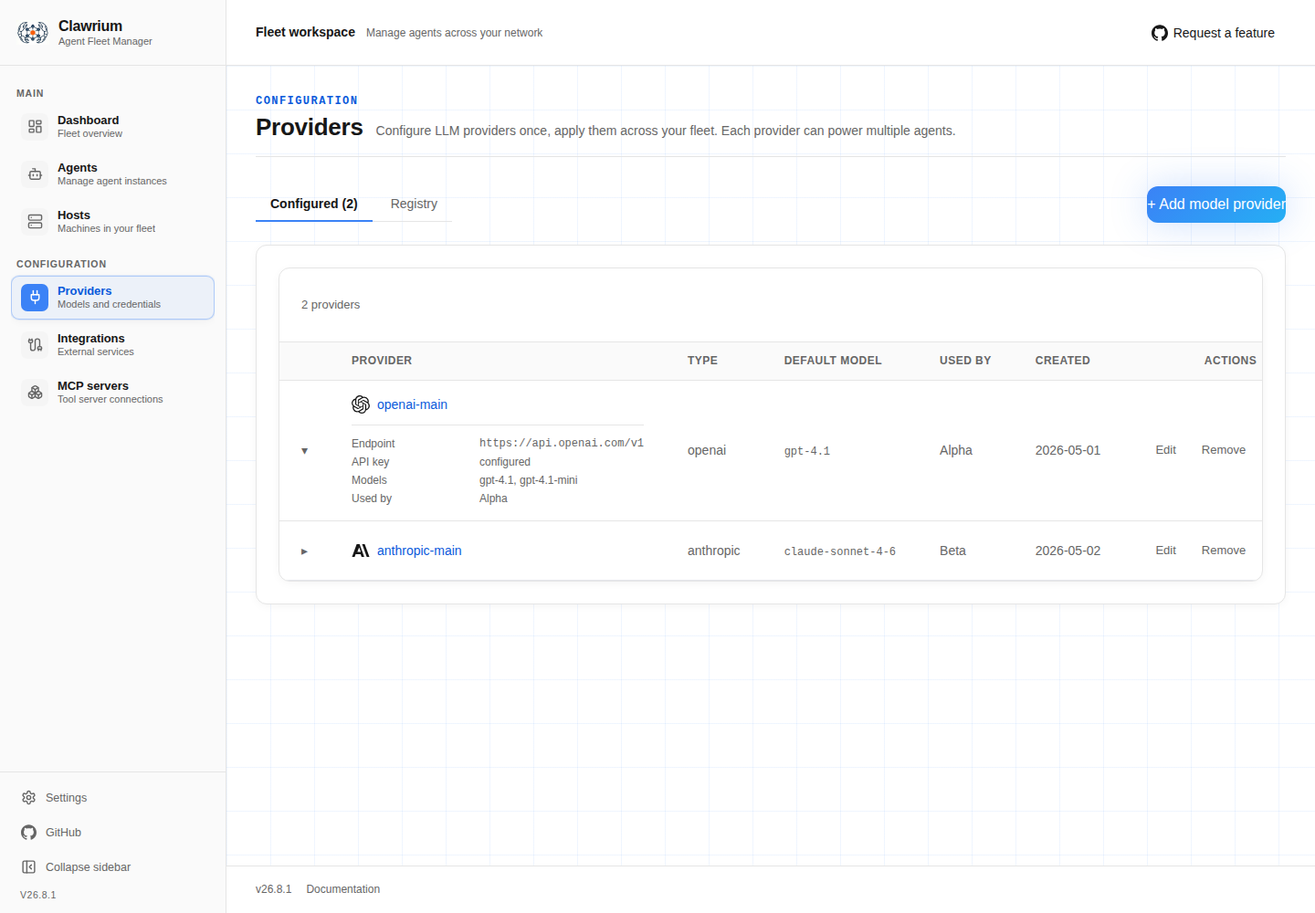
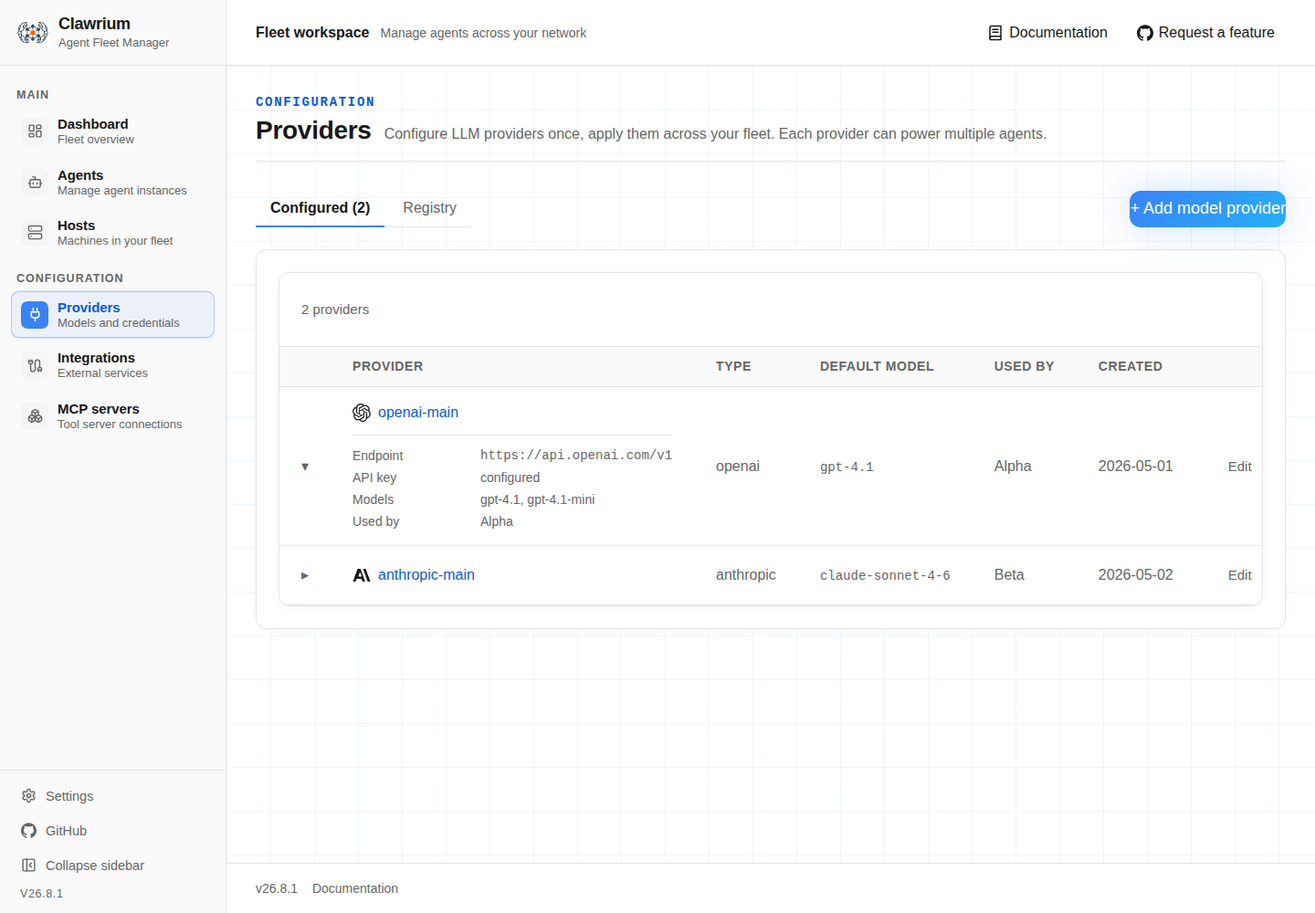
fix(gui): enlarge fleet typography
Expose Documentation in the top-right application header and raise the centralized design-system and Tailwind typography scale by roughly two pixels. Keep mobile actions accessible as icon-only links and refresh browser evidence.\n\nRefs #1075

diff --git a/gui/src/design-system/styles.css b/gui/src/design-system/styles.css
@@ -57,7 +57,7 @@
 
   box-sizing: border-box;
   color: var(--foreground);
-  font: 16px/1.6 var(--font-sans);
+  font: 18px/1.6 var(--font-sans);
 }
 
 .iteration-design-system *,
@@ -80,12 +80,12 @@
   --surface-raised: #171717;
 }
 
-:where(.ds-button) { display: inline-flex; align-items: center; justify-content: center; gap: 8px; height: 40px; padding: 0 16px; border: 0; border-radius: var(--radius); cursor: pointer; font: 500 14px var(--font-sans); white-space: nowrap; transition: filter 200ms, background 200ms; }
+:where(.ds-button) { display: inline-flex; align-items: center; justify-content: center; gap: 8px; height: 40px; padding: 0 16px; border: 0; border-radius: var(--radius); cursor: pointer; font: 500 16px var(--font-sans); white-space: nowrap; transition: filter 200ms, background 200ms; }
 .ds-button:hover:not(:disabled) { filter: brightness(1.08); }
 .ds-button:disabled { opacity: .5; cursor: not-allowed; }
 .ds-button:focus-visible, .ds-input:focus-visible { outline: 2px solid var(--focus-ring); outline-offset: 2px; }
-.ds-button[data-size="sm"] { height: 32px; padding: 0 12px; font-size: 13px; }
-.ds-button[data-size="lg"] { height: 48px; padding: 0 32px; font-size: 16px; }
+.ds-button[data-size="sm"] { height: 32px; padding: 0 12px; font-size: 15px; }
+.ds-button[data-size="lg"] { height: 48px; padding: 0 32px; font-size: 18px; }
 .ds-button[data-variant="primary"] { color: #fff; background: var(--gradient-accent); box-shadow: var(--shadow-glow); }
 .ds-button[data-variant="solid"] { color: #fff; background: var(--primary); }
 .ds-button[data-variant="outline"] { color: var(--foreground); background: var(--surface-card); border: 1px solid var(--border); }
@@ -104,34 +104,34 @@
 .ds-card[data-variant="gradient"] { background: linear-gradient(135deg, var(--surface-card), var(--surface-raised)); box-shadow: var(--shadow-card); }
 .ds-card[data-variant="glow"] { border-color: rgb(59 130 246 / 30%); box-shadow: var(--shadow-glow); }
 
-.ds-eyebrow { color: var(--primary-text-color); font: 600 12px var(--font-mono); letter-spacing: .12em; text-transform: uppercase; }
+.ds-eyebrow { color: var(--primary-text-color); font: 600 14px var(--font-mono); letter-spacing: .12em; text-transform: uppercase; }
 .ds-eyebrow[data-tone="muted"] { color: var(--muted-foreground); }
 
-:where(.ds-input) { width: 100%; min-width: 0; height: 48px; padding: 0 16px; border: 1px solid var(--border); border-radius: var(--radius); background: var(--surface-raised); color: var(--foreground); font: 15px var(--font-sans); }
+:where(.ds-input) { width: 100%; min-width: 0; height: 48px; padding: 0 16px; border: 1px solid var(--border); border-radius: var(--radius); background: var(--surface-raised); color: var(--foreground); font: 17px var(--font-sans); }
 .ds-input[data-size="sm"] { height: 40px; }
 .ds-input::placeholder { color: var(--muted-foreground); }
 
 .ds-stat { display: flex; align-items: flex-start; gap: 18px; }
 .ds-stat[data-layout="stacked"] { flex-direction: column; gap: 8px; }
-.ds-stat-value { font-size: 34px; font-weight: 700; letter-spacing: -.02em; line-height: 1; }
-.ds-stat[data-layout="stacked"] .ds-stat-value { font-size: 56px; }
-.ds-stat-source { display: block; margin-top: 4px; color: var(--muted-foreground); font-size: 13px; }
+.ds-stat-value { font-size: 36px; font-weight: 700; letter-spacing: -.02em; line-height: 1; }
+.ds-stat[data-layout="stacked"] .ds-stat-value { font-size: 58px; }
+.ds-stat-source { display: block; margin-top: 4px; color: var(--muted-foreground); font-size: 15px; }
 .dashboard-metric.ds-stat, .dashboard-agent-metric.ds-stat { gap: 4px; }
-.dashboard-metric.ds-stat .ds-stat-value { max-width: 100%; overflow: hidden; color: var(--primary-text-color); font-size: 24px; text-overflow: ellipsis; white-space: nowrap; }
-.dashboard-agent-metric.ds-stat .ds-stat-value { display: flex; min-height: 24px; align-items: center; justify-content: center; color: var(--foreground); font-size: 18px; }
+.dashboard-metric.ds-stat .ds-stat-value { max-width: 100%; overflow: hidden; color: var(--primary-text-color); font-size: 26px; text-overflow: ellipsis; white-space: nowrap; }
+.dashboard-agent-metric.ds-stat .ds-stat-value { display: flex; min-height: 24px; align-items: center; justify-content: center; color: var(--foreground); font-size: 20px; }
 
 .ds-data-table { width: 100%; overflow: hidden; border: 1px solid var(--border); border-radius: var(--radius); background: var(--surface-card); box-shadow: var(--shadow-card); }
 .ds-data-table-toolbar { display: flex; align-items: center; justify-content: space-between; flex-wrap: wrap; gap: 16px; padding: 20px 24px; }
 .ds-data-table-heading { display: flex; align-items: center; gap: 12px; min-height: 40px; }
-.ds-data-table-heading h2 { margin: 0; font: 600 18px/1.3 var(--font-sans); }
-.ds-data-table-count { color: var(--muted-foreground); font-size: 13px; white-space: nowrap; }
+.ds-data-table-heading h2 { margin: 0; font: 600 20px/1.3 var(--font-sans); }
+.ds-data-table-count { color: var(--muted-foreground); font-size: 15px; white-space: nowrap; }
 .ds-data-table-tools { display: flex; align-items: center; flex-wrap: wrap; gap: 12px; }
 .ds-data-table-search { position: relative; display: flex; align-items: center; width: min(280px, 100%); color: var(--muted-foreground); }
 .ds-data-table-search svg { position: absolute; left: 12px; pointer-events: none; }
 .ds-data-table-search .ds-input { padding-left: 36px; }
 .ds-data-table-scroll { width: 100%; overflow-x: auto; }
-.ds-data-table table { width: max-content; min-width: 100%; border-collapse: collapse; font-size: 14px; text-align: left; }
-.ds-data-table th { padding: 12px 24px; border-top: 1px solid var(--border); border-bottom: 1px solid var(--border); background: var(--surface-raised); color: var(--muted-foreground); font: 600 12px/1.4 var(--font-sans); letter-spacing: .04em; text-transform: uppercase; white-space: nowrap; }
+.ds-data-table table { width: max-content; min-width: 100%; border-collapse: collapse; font-size: 16px; text-align: left; }
+.ds-data-table th { padding: 12px 24px; border-top: 1px solid var(--border); border-bottom: 1px solid var(--border); background: var(--surface-raised); color: var(--muted-foreground); font: 600 14px/1.4 var(--font-sans); letter-spacing: .04em; text-transform: uppercase; white-space: nowrap; }
 .ds-data-table th[data-align="center"], .ds-data-table td[data-align="center"] { text-align: center; }
 .ds-data-table th[data-align="right"], .ds-data-table td[data-align="right"] { text-align: right; }
 .ds-data-table td { padding: 16px 24px; border-bottom: 1px solid var(--border); white-space: nowrap; }
@@ -143,12 +143,12 @@
 .ds-data-table-sort:focus-visible, .ds-data-table-pagination button:focus-visible { outline: 2px solid var(--focus-ring); outline-offset: 3px; border-radius: 3px; }
 .ds-data-table th[data-align="right"] .ds-data-table-sort { justify-content: flex-end; }
 .ds-data-table-empty { padding: 48px 24px !important; color: var(--muted-foreground); text-align: center !important; }
-.ds-data-table-footer { display: flex; align-items: center; justify-content: space-between; flex-wrap: wrap; gap: 12px; padding: 12px 24px; border-top: 1px solid var(--border); color: var(--muted-foreground); font-size: 13px; }
+.ds-data-table-footer { display: flex; align-items: center; justify-content: space-between; flex-wrap: wrap; gap: 12px; padding: 12px 24px; border-top: 1px solid var(--border); color: var(--muted-foreground); font-size: 15px; }
 .ds-data-table-pagination { display: flex; align-items: center; gap: 12px; }
 .ds-data-table-pagination button { display: inline-flex; align-items: center; justify-content: center; width: 30px; height: 30px; border: 1px solid var(--border); border-radius: 6px; background: var(--surface-card); color: var(--foreground); cursor: pointer; }
 .ds-data-table-pagination button:disabled { opacity: .4; cursor: not-allowed; }
 
-.ds-status-chip { display: inline-flex; align-items: center; gap: 7px; font: 500 13px var(--font-sans); white-space: nowrap; }
+.ds-status-chip { display: inline-flex; align-items: center; gap: 7px; font: 500 15px var(--font-sans); white-space: nowrap; }
 .ds-status-dot { width: 8px; height: 8px; border-radius: 50%; background: var(--muted-foreground); }
 .ds-status-chip[data-status="online"] .ds-status-dot, .ds-status-chip[data-status="valid"] .ds-status-dot, .ds-status-chip[data-status="connected"] .ds-status-dot, .ds-status-chip[data-status="active"] .ds-status-dot, .ds-status-chip[data-status="running"] .ds-status-dot { background: #22c55e; }
 .ds-status-chip[data-status="running"] .ds-status-dot { animation: ds-status-pulse 1.1s ease-in-out infinite; }
@@ -171,24 +171,24 @@
 .ds-page-header { display: flex; align-items: flex-start; justify-content: space-between; flex-wrap: wrap; gap: 16px; margin-bottom: 32px; padding-bottom: 16px; border-bottom: 1px solid var(--border); }
 .ds-page-header-main { min-width: 0; }
 .ds-page-title-row { display: flex; align-items: baseline; gap: 14px; min-width: 0; margin-top: 6px; }
-.ds-page-header h1 { margin: 0; font: 700 26px/1.2 var(--font-sans); letter-spacing: -.01em; white-space: nowrap; }
-.ds-page-header p { margin: 0; min-width: 0; overflow: hidden; text-overflow: ellipsis; white-space: nowrap; color: var(--muted-foreground); font-size: 14px; }
+.ds-page-header h1 { margin: 0; font: 700 28px/1.2 var(--font-sans); letter-spacing: -.01em; white-space: nowrap; }
+.ds-page-header p { margin: 0; min-width: 0; overflow: hidden; text-overflow: ellipsis; white-space: nowrap; color: var(--muted-foreground); font-size: 16px; }
 .ds-page-actions { display: flex; align-items: center; gap: 10px; }
 
 .ds-host-card { display: flex; flex-direction: column; gap: 12px; width: 100%; max-width: 420px; padding: 16px; border: 1px solid var(--border); border-radius: 10px; background: var(--background); box-shadow: 0 1px 3px rgba(0, 0, 0, .06); }
-.ds-host-card-head { display: flex; align-items: center; gap: 9px; padding-bottom: 10px; border-bottom: 1px solid var(--border); font: 600 16px var(--font-sans); }
+.ds-host-card-head { display: flex; align-items: center; gap: 9px; padding-bottom: 10px; border-bottom: 1px solid var(--border); font: 600 18px var(--font-sans); }
 .ds-host-card-name { color: inherit; text-decoration: none; white-space: nowrap; font-weight: 650; }
 .ds-host-card-name:hover { text-decoration: underline; }
-.ds-host-card-kind { margin-left: auto; color: var(--muted-foreground); font: 400 12px var(--font-mono); text-transform: uppercase; letter-spacing: .04em; }
+.ds-host-card-kind { margin-left: auto; color: var(--muted-foreground); font: 400 14px var(--font-mono); text-transform: uppercase; letter-spacing: .04em; }
 .ds-host-card-details { display: grid; grid-template-columns: 1fr 1fr; gap: 8px 16px; margin: 0; }
 .ds-host-card-details > div { min-width: 0; }
-.ds-host-card-details dt { color: var(--muted-foreground); font: 500 10.5px var(--font-sans); text-transform: uppercase; letter-spacing: .05em; }
-.ds-host-card-details dd { margin: 2px 0 0; overflow: hidden; text-overflow: ellipsis; white-space: nowrap; font: 500 12.5px var(--font-mono); }
-.ds-host-card-empty { color: var(--muted-foreground); font: 400 13px var(--font-sans); }
+.ds-host-card-details dt { color: var(--muted-foreground); font: 500 12.5px var(--font-sans); text-transform: uppercase; letter-spacing: .05em; }
+.ds-host-card-details dd { margin: 2px 0 0; overflow: hidden; text-overflow: ellipsis; white-space: nowrap; font: 500 14.5px var(--font-mono); }
+.ds-host-card-empty { color: var(--muted-foreground); font: 400 15px var(--font-sans); }
 .ds-host-card-agents { display: flex; flex-direction: column; gap: 6px; }
-.ds-host-agent { display: flex; align-items: center; gap: 7px; padding: 6px 10px; border: 1px solid var(--border); border-radius: 8px; background: var(--surface-raised); color: inherit; text-decoration: none; font: 500 13px var(--font-sans); }
+.ds-host-agent { display: flex; align-items: center; gap: 7px; padding: 6px 10px; border: 1px solid var(--border); border-radius: 8px; background: var(--surface-raised); color: inherit; text-decoration: none; font: 500 15px var(--font-sans); }
 .ds-host-agent:hover { border-color: var(--muted-foreground); }
-.ds-host-agent-kind { margin-left: auto; color: var(--muted-foreground); font: 400 11px var(--font-mono); }
+.ds-host-agent-kind { margin-left: auto; color: var(--muted-foreground); font: 400 13px var(--font-mono); }
 .ds-host-agent-more { justify-content: center; color: var(--muted-foreground); border-style: dashed; }
 
 .ds-grid-backdrop {
@@ -199,7 +199,7 @@
 }
 
 .ds-tab-bar { display: flex; gap: 4px; border-bottom: 1px solid var(--border); }
-.ds-tab-btn { margin-bottom: -1px; padding: 10px 16px; border: 0; border-bottom: 2px solid transparent; background: transparent; color: var(--muted-foreground); cursor: pointer; font: 500 14px var(--font-sans); }
+.ds-tab-btn { margin-bottom: -1px; padding: 10px 16px; border: 0; border-bottom: 2px solid transparent; background: transparent; color: var(--muted-foreground); cursor: pointer; font: 500 16px var(--font-sans); }
 .ds-tab-btn:hover { color: var(--foreground); }
 .ds-tab-btn[data-active="true"] { color: var(--foreground); border-bottom-color: var(--primary); font-weight: 600; }
 
@@ -208,10 +208,10 @@
 .ds-app-sidebar-brand { display: flex; height: 72px; flex: 0 0 auto; align-items: center; gap: 10px; margin: 0 -12px 4px; padding: 12px 18px; border-bottom: 1px solid var(--border); color: inherit; }
 .ds-app-sidebar-logo { width: 36px; height: 36px; flex: 0 0 auto; object-fit: contain; }
 .ds-app-sidebar-brand-text { display: flex; min-width: 0; flex-direction: column; gap: 1px; line-height: 1.2; }
-.ds-app-sidebar-brand-title { color: var(--foreground); font-size: 16px; font-weight: 700; letter-spacing: -.015em; }
-.ds-app-sidebar-brand-subtitle { overflow: hidden; color: var(--muted-foreground); font-size: 11px; font-weight: 500; text-overflow: ellipsis; white-space: nowrap; }
+.ds-app-sidebar-brand-title { color: var(--foreground); font-size: 18px; font-weight: 700; letter-spacing: -.015em; }
+.ds-app-sidebar-brand-subtitle { overflow: hidden; color: var(--muted-foreground); font-size: 13px; font-weight: 500; text-overflow: ellipsis; white-space: nowrap; }
 .ds-app-sidebar-nav { display: flex; min-height: 0; flex: 1 1 auto; flex-direction: column; gap: 4px; padding: 8px 0; overflow-y: auto; }
-.ds-app-sidebar-section { margin: 10px 6px 4px; color: var(--muted-foreground); font-size: 10.5px; font-weight: 650; letter-spacing: .08em; text-transform: uppercase; }
+.ds-app-sidebar-section { margin: 10px 6px 4px; color: var(--muted-foreground); font-size: 12.5px; font-weight: 650; letter-spacing: .08em; text-transform: uppercase; }
 .ds-app-sidebar-group { display: flex; flex-direction: column; gap: 4px; }
 .ds-app-sidebar-card { display: flex; width: 100%; align-items: center; gap: 10px; padding: 8px 10px; border: 1px solid transparent; border-radius: 9px; color: var(--foreground); background: transparent; text-decoration: none; transition: background-color 120ms ease, border-color 120ms ease, box-shadow 120ms ease; }
 .ds-app-sidebar-card:hover { border-color: var(--border); background: var(--accent); box-shadow: var(--shadow-card); }
@@ -219,13 +219,13 @@
 .ds-app-sidebar-card-tile { display: inline-flex; width: 30px; height: 30px; flex: 0 0 auto; align-items: center; justify-content: center; border-radius: 7px; background: var(--secondary); color: var(--muted-foreground); transition: background-color 120ms ease, color 120ms ease; }
 .ds-app-sidebar-card:hover .ds-app-sidebar-card-tile, .ds-app-sidebar-card[data-active="true"] .ds-app-sidebar-card-tile { background: var(--primary); color: var(--primary-foreground); }
 .ds-app-sidebar-card-text { display: flex; min-width: 0; flex-direction: column; line-height: 1.2; }
-.ds-app-sidebar-card-title { color: var(--foreground); font-size: 13px; font-weight: 600; letter-spacing: -.005em; }
+.ds-app-sidebar-card-title { color: var(--foreground); font-size: 15px; font-weight: 600; letter-spacing: -.005em; }
 .ds-app-sidebar-card[data-active="true"] .ds-app-sidebar-card-title { color: var(--accent-foreground); font-weight: 700; }
-.ds-app-sidebar-card-subtitle { overflow: hidden; color: var(--muted-foreground); font-size: 11px; font-weight: 500; text-overflow: ellipsis; white-space: nowrap; }
+.ds-app-sidebar-card-subtitle { overflow: hidden; color: var(--muted-foreground); font-size: 13px; font-weight: 500; text-overflow: ellipsis; white-space: nowrap; }
 .ds-app-sidebar-footer { display: flex; flex-direction: column; gap: 3px; margin: 0 -12px -14px; padding: 10px 12px 12px; border-top: 1px solid var(--border); background: var(--surface-raised); }
-.ds-app-sidebar-action { display: flex; width: 100%; align-items: center; gap: 10px; padding: 8px 10px; border: 1px solid transparent; border-radius: 9px; color: var(--muted-foreground); background: transparent; font: 500 12.5px var(--font-sans); text-align: left; cursor: pointer; transition: background-color 120ms ease, color 120ms ease; }
+.ds-app-sidebar-action { display: flex; width: 100%; align-items: center; gap: 10px; padding: 8px 10px; border: 1px solid transparent; border-radius: 9px; color: var(--muted-foreground); background: transparent; font: 500 14.5px var(--font-sans); text-align: left; cursor: pointer; transition: background-color 120ms ease, color 120ms ease; }
 .ds-app-sidebar-action:hover, .ds-app-sidebar-action[data-active="true"] { color: var(--foreground); background: var(--secondary); }
-.ds-app-sidebar-version { padding: 4px 10px 2px; color: var(--muted-foreground); font: 500 10.5px var(--font-sans); letter-spacing: .05em; text-transform: uppercase; }
+.ds-app-sidebar-version { padding: 4px 10px 2px; color: var(--muted-foreground); font: 500 12.5px var(--font-sans); letter-spacing: .05em; text-transform: uppercase; }
 .ds-app-sidebar.sidebar-collapsed { padding-inline: 8px; }
 .ds-app-sidebar.sidebar-collapsed .ds-app-sidebar-brand { justify-content: center; margin-inline: -8px; padding-inline: 8px; }
 .ds-app-sidebar.sidebar-collapsed .ds-app-sidebar-brand-text, .ds-app-sidebar.sidebar-collapsed .ds-app-sidebar-card-text, .ds-app-sidebar.sidebar-collapsed .ds-app-sidebar-action-label, .ds-app-sidebar.sidebar-collapsed .ds-app-sidebar-version { display: none; }

diff --git a/gui/src/components/layout/app-shell.test.tsx b/gui/src/components/layout/app-shell.test.tsx
@@ -27,6 +27,7 @@ describe("AppShell", () => {
     const header = screen.getByRole("banner", { name: "Application header" });
     expect(within(header).getByText("Fleet workspace")).toBeInTheDocument();
     expect(within(header).getByText("Manage agents across your network")).toBeInTheDocument();
+    expect(within(header).getByRole("link", { name: "Documentation" })).toHaveAttribute("href", "https://ric03uec.github.io/clawrium/");
     expect(within(header).getByRole("link", { name: "Request a feature" })).toBeInTheDocument();
     const footer = screen.getByRole("contentinfo");
     expect(within(footer).getByRole("link", { name: "Documentation" })).toBeInTheDocument();
@@ -65,7 +66,7 @@ describe("AppShell", () => {
     vi.stubGlobal("fetch", vi.fn(() => new Promise((_resolve, reject) => { rejectFetch = reject; })));
     render(<AppShell>Content</AppShell>);
     await act(async () => { rejectFetch(new Error("unavailable")); });
-    expect(screen.getByRole("link", { name: "Documentation" })).toBeInTheDocument();
+    expect(within(screen.getByRole("contentinfo")).getByRole("link", { name: "Documentation" })).toBeInTheDocument();
   });
 
   it("handles a missing version and malformed JSON", async () => {
@@ -74,7 +75,7 @@ describe("AppShell", () => {
       const { container, unmount } = render(<AppShell>Content</AppShell>);
       await act(async () => { await Promise.resolve(); });
       expect(container.querySelector(".app-sidebar")).toHaveAttribute("data-version", "");
-      expect(screen.getByRole("link", { name: "Documentation" })).toBeInTheDocument();
+      expect(within(screen.getByRole("contentinfo")).getByRole("link", { name: "Documentation" })).toBeInTheDocument();
       unmount();
     }
   });

diff --git a/gui/src/components/layout/external-links.tsx b/gui/src/components/layout/external-links.tsx
@@ -1,18 +1,38 @@
+import type { ReactNode } from "react";
+import { DocsIcon } from "@/components/icons/docs";
 import { GithubIcon } from "@/components/icons/github";
 
+const DOCUMENTATION_URL = "https://ric03uec.github.io/clawrium/";
 const FEATURE_REQUEST_URL =
   "https://github.com/ric03uec/clawrium/issues/new?template=feature_request.yml";
 
-export function RequestFeatureButton() {
+function HeaderExternalLink({ href, icon, children }: { href: string; icon: ReactNode; children: string }) {
   return (
     <a
-      href={FEATURE_REQUEST_URL}
+      href={href}
       target="_blank"
       rel="noreferrer noopener"
-      className="flex items-center gap-1.5 px-3 h-9 rounded-lg text-sm text-primary-text hover:text-primary-foreground hover:bg-panel transition-colors whitespace-nowrap"
+      aria-label={children}
+      className="flex h-9 items-center gap-1.5 whitespace-nowrap rounded-lg px-3 text-sm text-primary-text transition-colors hover:bg-panel hover:text-primary-foreground"
     >
-      <GithubIcon className="h-[18px] w-[18px]" />
-      <span>Request a feature</span>
+      {icon}
+      <span>{children}</span>
     </a>
+  );
+}
+
+export function DocumentationButton() {
+  return (
+    <HeaderExternalLink href={DOCUMENTATION_URL} icon={<DocsIcon className="h-[18px] w-[18px]" />}>
+      Documentation
+    </HeaderExternalLink>
+  );
+}
+
+export function RequestFeatureButton() {
+  return (
+    <HeaderExternalLink href={FEATURE_REQUEST_URL} icon={<GithubIcon className="h-[18px] w-[18px]" />}>
+      Request a feature
+    </HeaderExternalLink>
   );
 }

diff --git a/gui/tailwind.config.ts b/gui/tailwind.config.ts
@@ -3,6 +3,21 @@ import type { Config } from "tailwindcss";
 const config: Config = {
   content: ["./src/**/*.{ts,tsx}"],
   theme: {
+    fontSize: {
+      xs: ["0.875rem", { lineHeight: "1.25rem" }],
+      sm: ["1rem", { lineHeight: "1.5rem" }],
+      base: ["1.125rem", { lineHeight: "1.75rem" }],
+      lg: ["1.25rem", { lineHeight: "1.75rem" }],
+      xl: ["1.375rem", { lineHeight: "1.75rem" }],
+      "2xl": ["1.625rem", { lineHeight: "2rem" }],
+      "3xl": ["2rem", { lineHeight: "2.25rem" }],
+      "4xl": ["2.5rem", { lineHeight: "2.75rem" }],
+      "5xl": ["3.125rem", { lineHeight: "1" }],
+      "6xl": ["3.875rem", { lineHeight: "1" }],
+      "7xl": ["4.625rem", { lineHeight: "1" }],
+      "8xl": ["6.125rem", { lineHeight: "1" }],
+      "9xl": ["8.125rem", { lineHeight: "1" }],
+    },
     extend: {
       colors: {
         primary: {

diff --git a/gui/src/styles/globals.css b/gui/src/styles/globals.css
@@ -82,14 +82,14 @@ body {
 
 .app-header-context strong {
   color: var(--foreground);
-  font-size: 0.875rem;
+  font-size: 1rem;
   font-weight: 650;
 }
 
 .app-header-description {
   overflow: hidden;
   color: var(--muted-foreground);
-  font-size: 0.75rem;
+  font-size: 0.875rem;
   text-overflow: ellipsis;
 }
 
@@ -115,7 +115,7 @@ body {
   border-top: 1px solid var(--border);
   background: var(--surface-card);
   color: var(--muted-foreground);
-  font-size: 0.75rem;
+  font-size: 0.875rem;
 }
 
 .app-footer a:hover {
@@ -143,6 +143,16 @@ body {
 
   .app-header {
     padding: 0 1.25rem;
+  }
+
+  .app-header-actions a {
+    width: 2.25rem;
+    justify-content: center;
+    padding-inline: 0;
+  }
+
+  .app-header-actions a span {
+    display: none;
   }
 
   .app-page {

diff --git a/gui/src/components/layout/app-shell.tsx b/gui/src/components/layout/app-shell.tsx
@@ -1,7 +1,7 @@
 "use client";
 
 import { useEffect, useState } from "react";
-import { RequestFeatureButton } from "./external-links";
+import { DocumentationButton, RequestFeatureButton } from "./external-links";
 import { Sidebar } from "./sidebar";
 
 export function AppShell({ children }: { children: React.ReactNode }) {
@@ -31,6 +31,7 @@ export function AppShell({ children }: { children: React.ReactNode }) {
             <span className="app-header-description">Manage agents across your network</span>
           </div>
           <div className="app-header-actions">
+            <DocumentationButton />
             <RequestFeatureButton />
           </div>
         </header>

diff --git a/gui/e2e/design-system.spec.ts b/gui/e2e/design-system.spec.ts
@@ -269,6 +269,9 @@ test("every primary sidebar route resolves with its heading and active item", as
 
 test("desktop shell collapse keeps icon navigation accessible", async ({ page }) => {
   await page.goto("/agents");
+  const header = page.getByRole("banner", { name: "Application header" });
+  await expect(header.getByRole("link", { name: "Documentation" })).toBeVisible();
+  await expect(header.getByRole("link", { name: "Request a feature" })).toBeVisible();
   await page.keyboard.press("Tab");
   const skipLink = page.getByRole("link", { name: "Skip to main content" });
   await expect(skipLink).toBeFocused();

diff --git a/gui/src/styles/visual-system.test.ts b/gui/src/styles/visual-system.test.ts
@@ -69,6 +69,8 @@ describe("visual-system activation contracts", () => {
     expect(globals).toContain("var(--focus-ring)");
     expect(tailwind).toContain('DEFAULT: "var(--primary)"');
     expect(tailwind).toContain('default: "var(--border)"');
+    expect(tailwind).toContain('base: ["1.125rem", { lineHeight: "1.75rem" }]');
+    expect(styles).toContain("font: 18px/1.6 var(--font-sans)");
     expect(tailwind).not.toMatch(/teal:\s*\{/);
   });
 

diff --git a/CHANGELOG.md b/CHANGELOG.md
@@ -34,7 +34,7 @@ cut. The `itx-release` skill archives this section into a new
 
 ### Changed
 
-- Standardize the GUI on the copied design system: shared accessible tables for agent, host, provider, model, and integration inventories; migrated headers, controls, tabs, metrics, and status surfaces; and a responsive, browser-verified app shell whose reusable sidebar matches the approved navigation hierarchy exactly. MCP servers retains a dedicated follow-up placeholder (#1075).
+- Standardize the GUI on the copied design system: shared accessible tables for agent, host, provider, model, and integration inventories; migrated headers, controls, tabs, metrics, and status surfaces; larger fleet-wide typography; and a responsive, browser-verified app shell whose reusable sidebar matches the approved navigation hierarchy exactly and whose header exposes Documentation and feature-request actions. MCP servers retains a dedicated follow-up placeholder (#1075).
 
 ### Fixed
 

diff --git a/gui/src/design-system/README.md b/gui/src/design-system/README.md
@@ -49,6 +49,8 @@ React 18, Next 14, and Tailwind 3, so this fork deliberately:
 - uses `tailwind-merge` 2.x, the Tailwind 3-compatible line;
 - scopes tokens beneath `.iteration-design-system`, uses system font fallbacks,
   and does not copy the Tailwind 4-only `shadcn.css` or network-loaded fonts;
+- raises the upstream 16 px base typography and Tailwind type scale by roughly
+  two pixels for the fleet-management shell's wide desktop layouts;
 - changes `HostCard` from a fixed 420 px width to `width: 100%` with
   `max-width: 420px` for narrow layouts;
 - forwards Button/Card refs and retains the previous production `danger`

diff --git a/.itx/1075/02_EXECUTE.md b/.itx/1075/02_EXECUTE.md
@@ -40,6 +40,8 @@ backend description/context-injection work recorded in the parent issue.
 - Replaced the Hosts placeholder with a searchable shared `DataTable` showing
   OS identity, primary address, SSH user, agent count, architecture, and access
   status from the existing topology API.
+- Added Documentation to the top-right application header and raised the
+  design-system/Tailwind typography scale by roughly two pixels across the GUI.
 - Regenerated browser evidence and metadata after all fixes. Metadata describes
   the uncommitted working tree and does not claim a commit SHA.
 

diff --git a/docs/architecture/gui-ui-map.md b/docs/architecture/gui-ui-map.md
@@ -23,7 +23,7 @@
 | Element | Location | Contents |
 |---------|----------|----------|
 | **Sidebar** | Left, 248 px expanded | Logo · "Agent Fleet Manager" tagline · grouped design-system navigation cards · Settings · GitHub · collapse/expand control · version |
-| **Header bar** | Top, 72 px | Fleet workspace context · "Request a feature" link |
+| **Header bar** | Top, 72 px | Fleet workspace context · Documentation · Request a feature |
 | **App footer** | Bottom | Version · intentional global links such as Documentation |
 
 **Approved primary navigation (#1075):**
